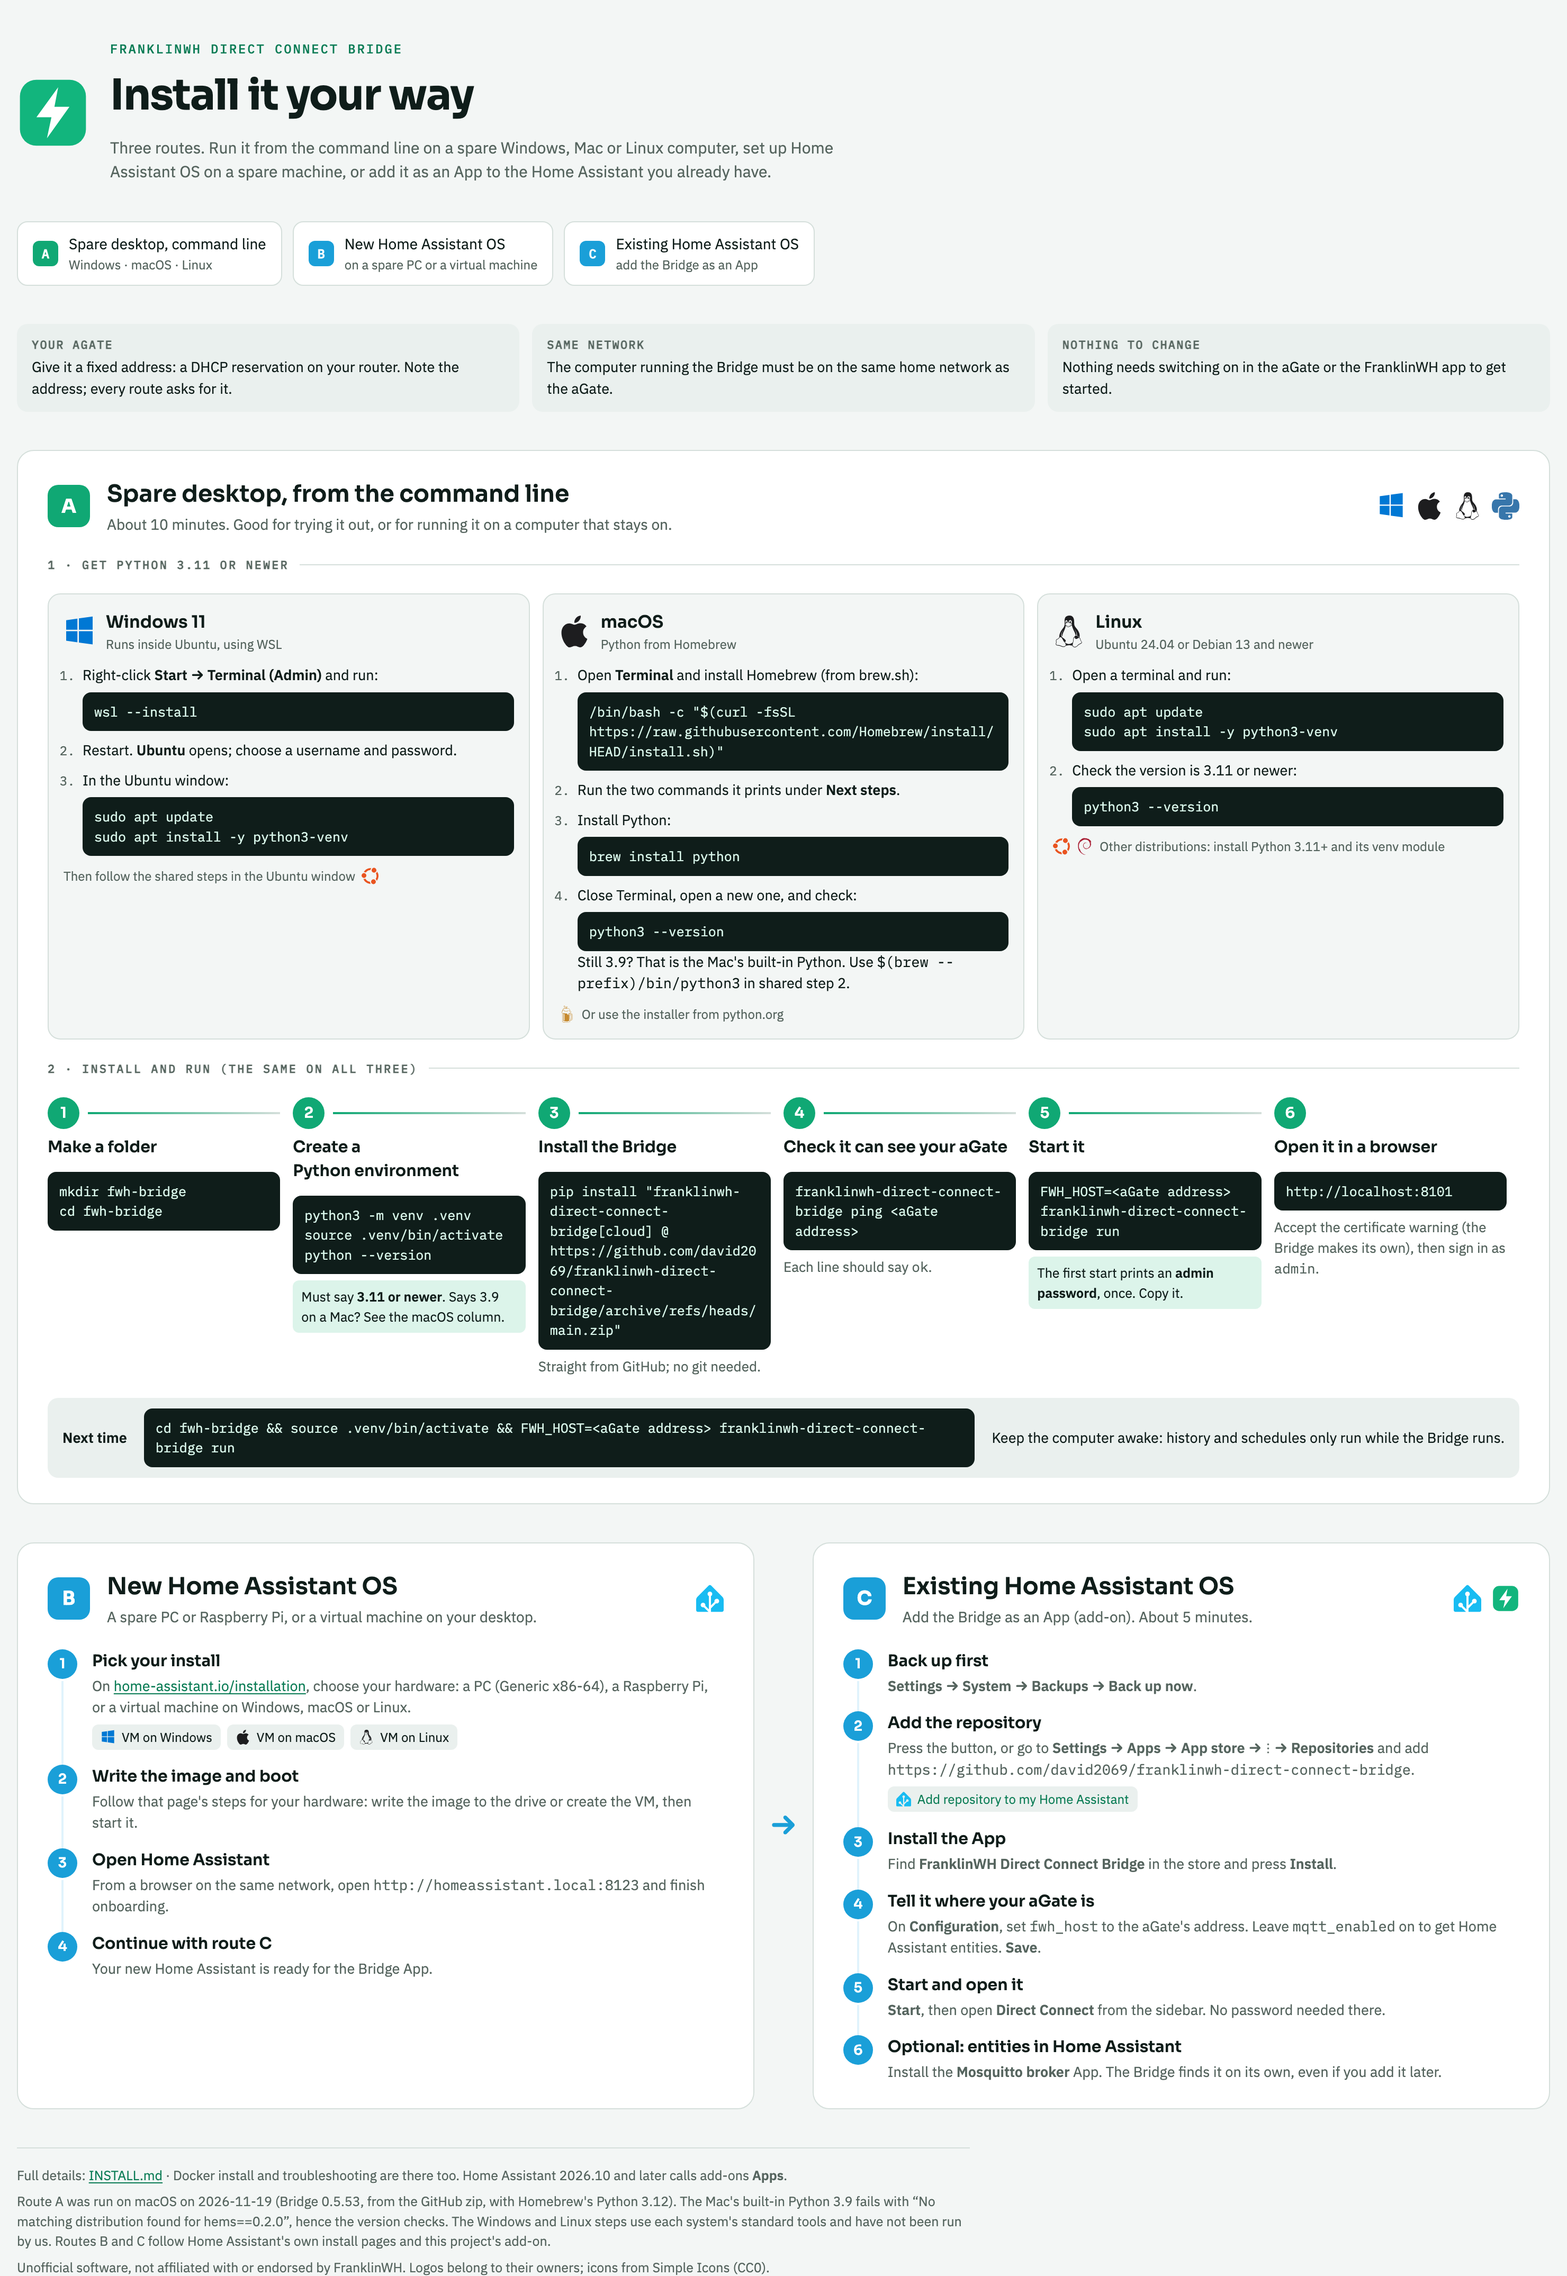
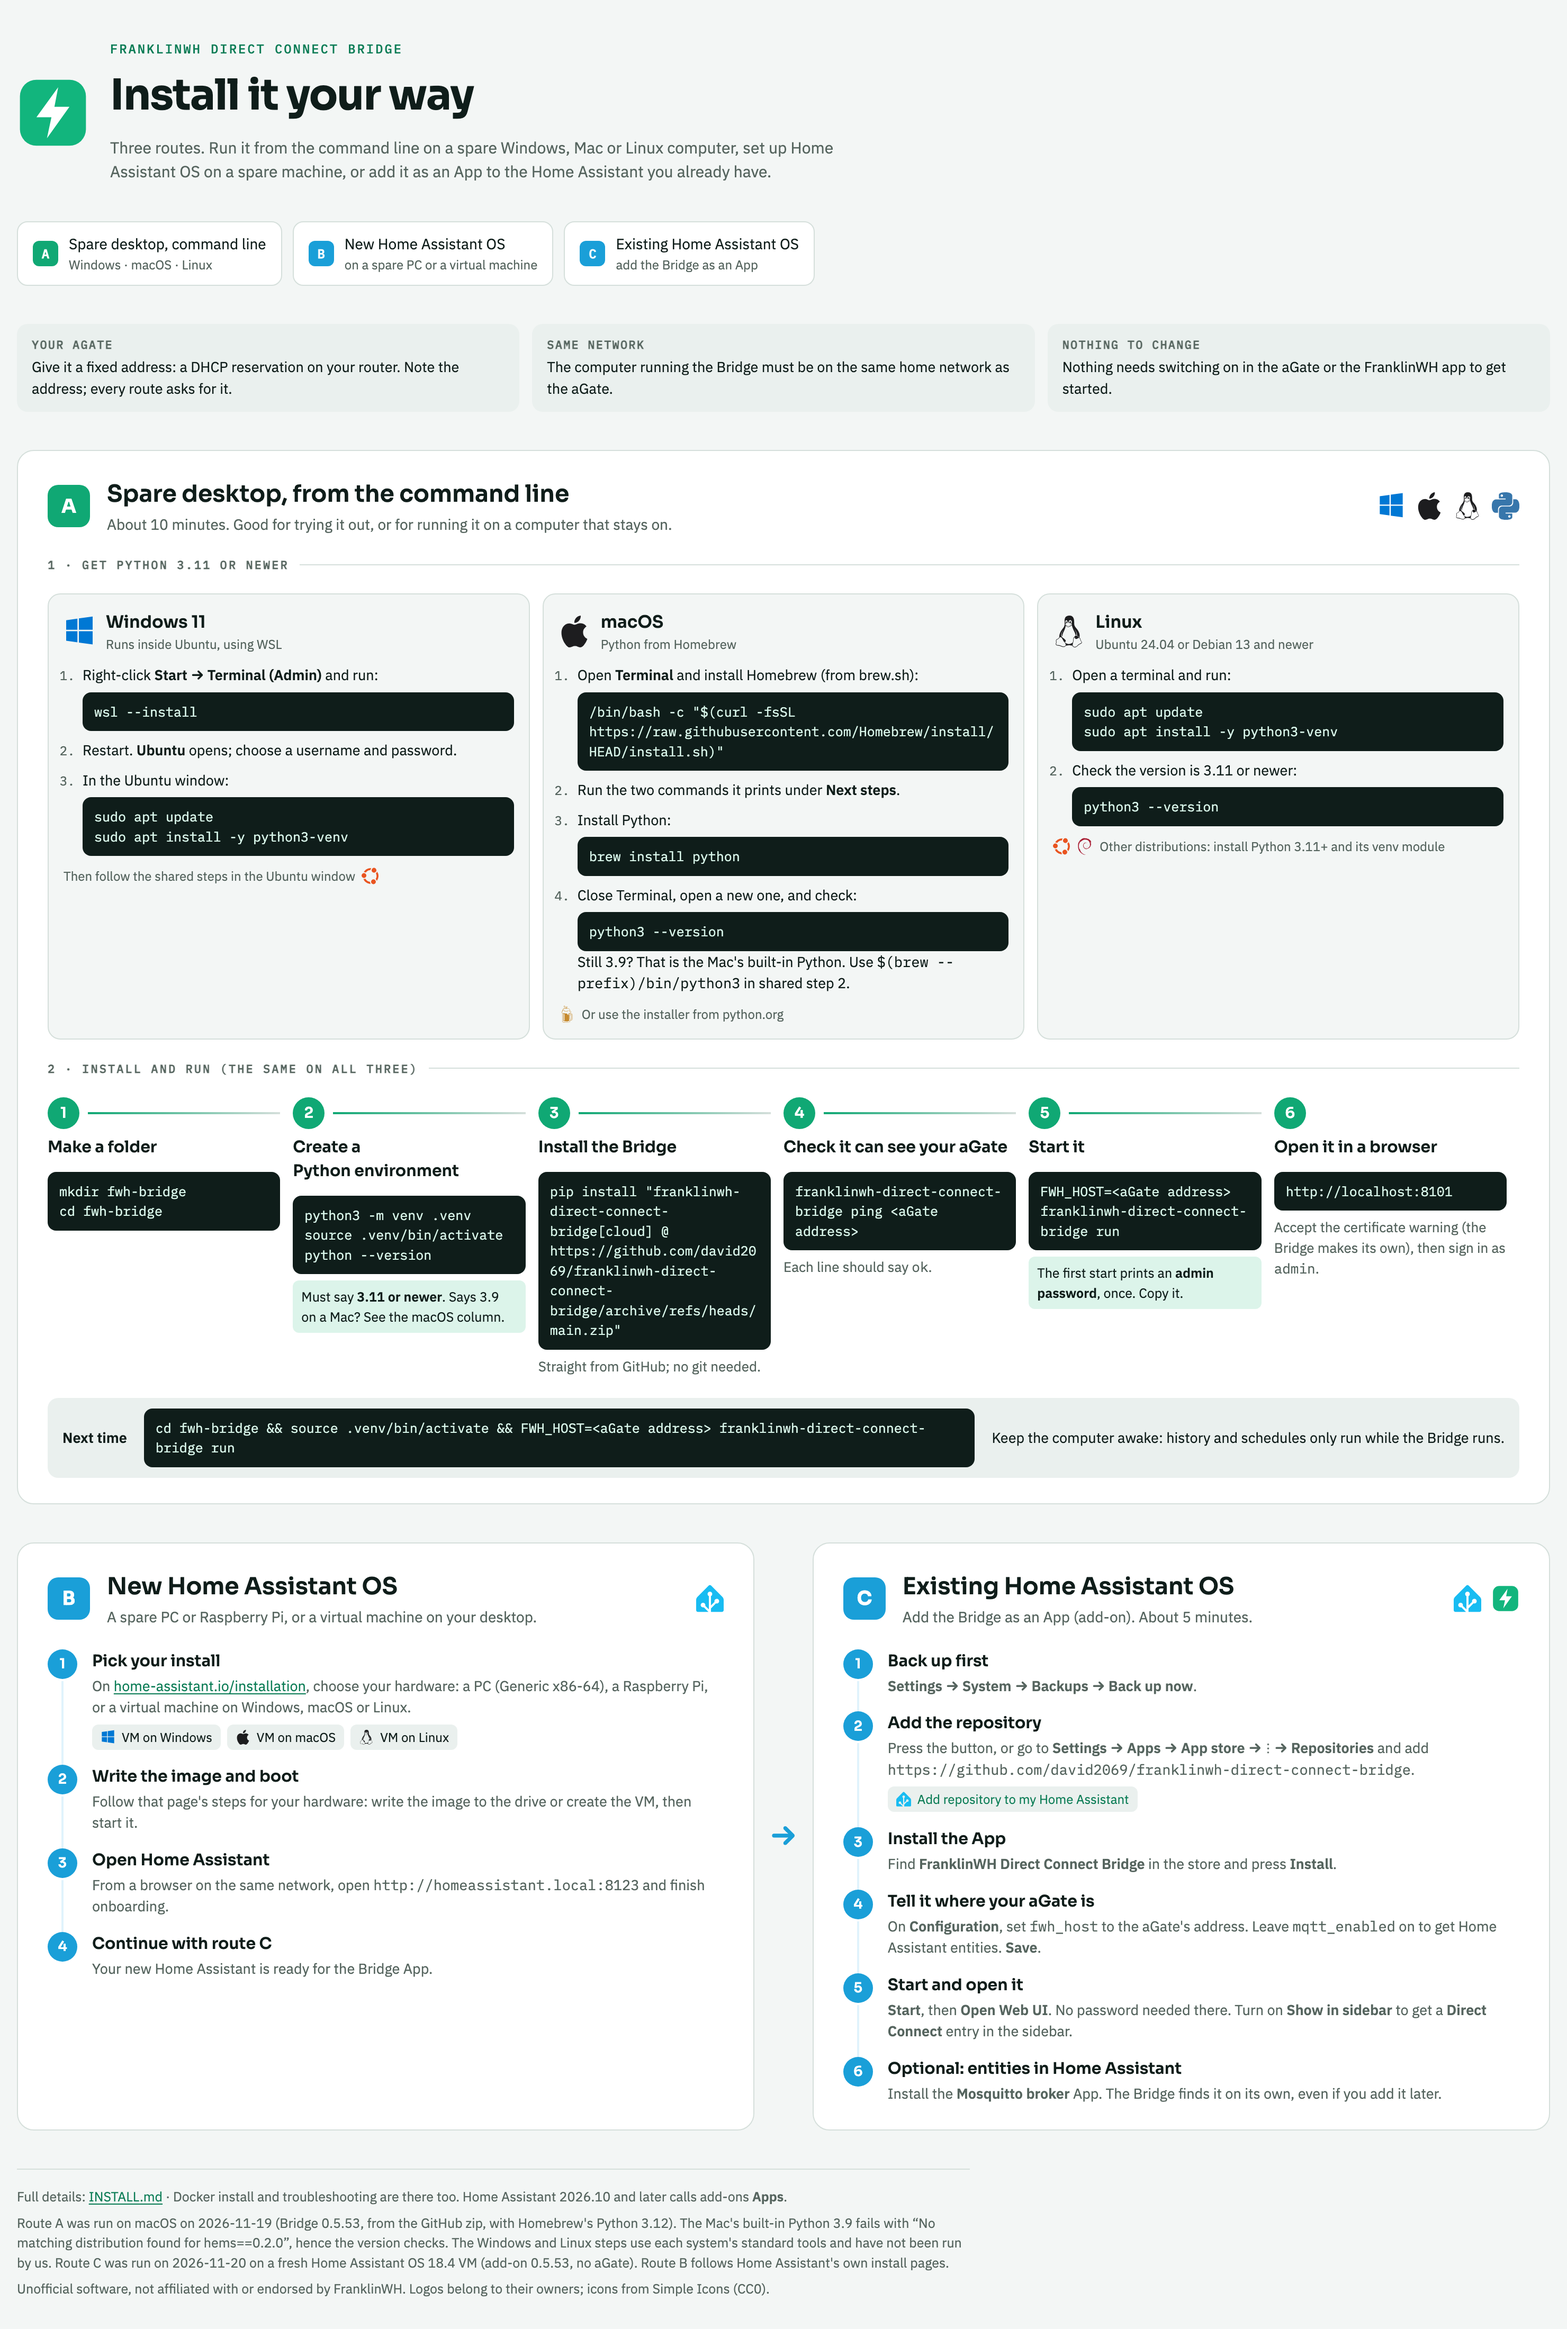
docs: open the add-on with Open Web UI; Show in sidebar may be off
On a fresh Home Assistant OS 18.4 VM (2026-11-20, add-on 0.5.53) the Bridge
installed with Show in sidebar off, so "open the sidebar panel" found nothing.
INSTALL.md, DOCS.md, the quick-install page and image, and use cases now say
Start, then Open Web UI, and that Show in sidebar adds a Direct Connect entry.

The quick-install page records the route C run and that this VM's Home
Assistant answered on port 80 with 8123 redirecting there.

Refs #784
Refs #780

diff --git a/docs/overview/quick-install.html b/docs/overview/quick-install.html
@@ -256,7 +256,7 @@ python --version</pre>
         <a class="badge" href="https://my.home-assistant.io/redirect/supervisor_add_addon_repository/?repository_url=https%3A%2F%2Fgithub.com%2Fdavid2069%2Ffranklinwh-direct-connect-bridge"><span class="chip"><svg><use href="#homeassistant"/></svg>Add repository to my Home Assistant</span></a></div></li>
       <li><div><h3>Install the App</h3><p>Find <b>FranklinWH Direct Connect Bridge</b> in the store and press <b>Install</b>.</p></div></li>
       <li><div><h3>Tell it where your aGate is</h3><p>On <b>Configuration</b>, set <code>fwh_host</code> to the aGate's address. Leave <code>mqtt_enabled</code> on to get Home Assistant entities. <b>Save</b>.</p></div></li>
-      <li><div><h3>Start and open it</h3><p><b>Start</b>, then open <b>Direct Connect</b> from the sidebar. No password needed there.</p></div></li>
+      <li><div><h3>Start and open it</h3><p><b>Start</b>, then <b>Open Web UI</b>. No password needed there. Turn on <b>Show in sidebar</b> to get a <b>Direct Connect</b> entry in the sidebar.</p></div></li>
       <li><div><h3>Optional: entities in Home Assistant</h3><p>Install the <b>Mosquitto broker</b> App. The Bridge finds it on its own, even if you add it later.</p></div></li>
     </ol>
   </section>
@@ -264,7 +264,7 @@ python --version</pre>
 
 <footer>
   <span>Full details: <a href="https://github.com/david2069/franklinwh-direct-connect-bridge/blob/main/INSTALL.md">INSTALL.md</a> · Docker install and troubleshooting are there too. Home Assistant 2026.10 and later calls add-ons <b>Apps</b>.</span>
-  <span>Route A was run on macOS on 2026-11-19 (Bridge 0.5.53, from the GitHub zip, with Homebrew's Python 3.12). The Mac's built-in Python 3.9 fails with “No matching distribution found for hems==0.2.0”, hence the version checks. The Windows and Linux steps use each system's standard tools and have not been run by us. Routes B and C follow Home Assistant's own install pages and this project's add-on.</span>
+  <span>Route A was run on macOS on 2026-11-19 (Bridge 0.5.53, from the GitHub zip, with Homebrew's Python 3.12). The Mac's built-in Python 3.9 fails with “No matching distribution found for hems==0.2.0”, hence the version checks. The Windows and Linux steps use each system's standard tools and have not been run by us. Route C was run on 2026-11-20 on a fresh Home Assistant OS 18.4 VM (add-on 0.5.53, no aGate). Route B follows Home Assistant's own install pages.</span>
   <span>Unofficial software, not affiliated with or endorsed by FranklinWH. Logos belong to their owners; icons from Simple Icons (CC0).</span>
 </footer>
 </div>

diff --git a/docs/guide/quick-install.md b/docs/guide/quick-install.md
@@ -158,7 +158,9 @@ History and schedules only run while the Bridge runs, so keep the computer awake
 3. **Install**: find **FranklinWH Direct Connect Bridge** in the store and press **Install**.
 4. **Configure**: on **Configuration**, set `fwh_host` to the aGate's address. Leave
    `mqtt_enabled` on to get Home Assistant entities. **Save**.
-5. **Start**, then open **Direct Connect** from the sidebar. No password is needed there.
+5. **Start**, then **Open Web UI**. No password is needed there. To open it from the sidebar
+   too, turn on **Show in sidebar** on the same page: a **Direct Connect** entry appears. It was
+   off after a fresh install on Home Assistant OS 18.4 ([#784](https://github.com/david2069/franklinwh-direct-connect-bridge/issues/784)).
 6. **Optional**: install the **Mosquitto broker** App for Home Assistant entities. The
    Bridge picks it up on its own, even if you add it later.
 
@@ -180,3 +182,11 @@ Home Assistant 2026.10 and later calls add-ons **Apps**; INSTALL.md still says *
   [Installing, in pictures](installing.md#home-assistant-add-on), whose screenshots were taken
   on 2026-10-16 with release 0.5.0. The sidebar title (`panel_title: "Direct Connect"`) and
   option names (`fwh_host`, `mqtt_enabled`) are from the add-on's `config.yaml`.
+- **Route C** was run on 2026-11-20 on a fresh Home Assistant OS 18.4 virtual machine with
+  add-on 0.5.53 and no aGate: repository added, App installed and started. **Show in sidebar**
+  was off after installing; **Open Web UI** worked, and with the toggle on, **Direct Connect**
+  appeared in the sidebar. The add-on log reported Security on for a new install and printed
+  no password; the sidebar panel opened without a sign-in.
+- **On that virtual machine, Home Assistant answered on port 80**, and every request to 8123
+  was redirected to the same path on port 80. On a home network, `homeassistant.local:8123`
+  therefore still lands on Home Assistant. Seen on one install only.

diff --git a/docs/guide/use-cases.md b/docs/guide/use-cases.md
@@ -46,7 +46,7 @@ Give the aGate a fixed address on your router so the Bridge can always find it.
 
 Install the Bridge as a Home Assistant add-on: add this repository to the add-on store,
 install **FranklinWH Direct Connect Bridge**, set your aGate's address and start it. It opens
-from the Home Assistant sidebar, links itself to Home Assistant, and finds the Mosquitto
+with **Open Web UI** (turn on **Show in sidebar** to add it to the sidebar), links itself to Home Assistant, and finds the Mosquitto
 broker on its own, so your aGate shows up as a device with sensors and controls.
 
 - [Quick install, routes B and C](quick-install.md#c-existing-home-assistant-os)

diff --git a/INSTALL.md b/INSTALL.md
@@ -30,7 +30,9 @@ Click the button above, or add the repository by hand:
 3. Find **FranklinWH Direct Connect Bridge** and click **Install**.
 4. On **Configuration**, set `fwh_host` to the aGate's IP. Set `mqtt_enabled: true` to
    publish the battery as Home Assistant entities. **Save.**
-5. **Start**, then open the sidebar panel (served over HA ingress).
+5. **Start**, then **Open Web UI** (served over HA ingress). For a **Direct Connect** entry in
+   the sidebar, turn on **Show in sidebar** on the same page: it was off after a fresh install
+   on Home Assistant OS 18.4 (#784).
 
 ### What the add-on does for you
 

diff --git a/DOCS.md b/DOCS.md
@@ -15,7 +15,8 @@ cloud account required — and publishes it to Home Assistant over MQTT.
 1. Set **`fwh_host`** to your aGate's IP address. Give it a DHCP reservation or a static
    address — if it moves, the bridge loses the gateway until you update this.
 2. Set **`mqtt_enabled: true`** to publish entities to Home Assistant.
-3. **Save**, then **Start**, then open the sidebar panel.
+3. **Save**, then **Start**, then **Open Web UI**. Turn on **Show in sidebar** for a
+   **Direct Connect** entry in the sidebar; it may be off after installing.
 
 Nothing needs enabling on the gateway for reads.
 
